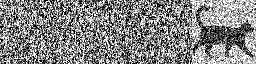
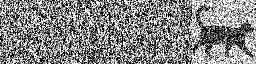
S-random interleaver, dropped SNR to 1 dB

diff --git a/repeat-accumulate.cpp b/repeat-accumulate.cpp
@@ -130,13 +130,43 @@ class RepeatAccumulateEncoder
   public:
     RepeatAccumulateEncoder()
     {
-      // Start with ordered sequence,
+      std::default_random_engine gen(123);
+      // Start with ordered sequence, then shuffle it
       for (int i = 0; i < B * Q; i++) {
         order_[i] = i;
       }
-      // then shuffle it
-      std::default_random_engine gen(123);
-      std::shuffle(order_, order_ + B * Q, gen);
+      int start = 0;
+      for (int attempt = 0; attempt < 1000; attempt++) {
+
+        // (re)shuffle the remaining portion
+        std::shuffle(order_ + start, order_ + B * Q, gen);
+
+        // Check if interleaver is S-random (no input symbols within distance S 
+        // appear within a distance of S in the output) with S == Q
+        bool is_s_random = true;
+        for (int i = start; i < B * Q - 1 && is_s_random; i++) {
+          for (int j = i + 1; j < i + Q && j < B * Q; j++) {
+            int distance = order_[i] - order_[j];
+            if (distance < Q && distance > -Q) {
+              is_s_random = false;
+              double percent_remaining = (B * Q - i) * 100. / (B * Q);
+              printf("Interleaver is not S-random, order_[%d]=%d and order_[%d]=%d, %.2f%% remaining\n", i, order_[i], j, order_[j], percent_remaining);
+              if (percent_remaining < 1) {
+                printf("Tail is too short, re-shuffling from the beginning\n");
+                start = 0;
+              } else {
+                start = i;
+              }
+              break;
+            }
+          }
+        }
+        if (is_s_random) {
+          printf("Interleaver is S-random\n");
+          return;
+        }
+      }
+      printf("Giving up, will use suboptimal interleaver\n");
     }
 
     // Decoder will need to know the order
@@ -277,6 +307,7 @@ class RepeatAccumulateDecoder
           }
         }
         if (all_parity_checks_ok) {
+          printf("All parity checks passed at iteration %d\n", iteration);
           break;
         }
 
@@ -349,7 +380,7 @@ std::bitset<B> simple_average_decode(const double received_repeat[B * (Q + 1)])
 int main(void)
 {
   const double rate = 1. / (Q + 1);
-  const double ebn0 = 2.; // Signal to noise ratio in dB
+  const double ebn0 = 1.; // Signal to noise ratio in dB
   const double variance = 1.0 / (rate * pow(10.0, ebn0 / 10.0)) * 0.5;
   printf("Coding rate = %lf, SNR = %g dB\n", rate, ebn0);
     
@@ -400,6 +431,7 @@ int main(void)
   corrected_ra = ra_decoder.decode(llr, 15); write_pbm("images/corrected_ra_15.pbm", corrected_ra);
   corrected_ra = ra_decoder.decode(llr, 20); write_pbm("images/corrected_ra_20.pbm", corrected_ra);
   corrected_ra = ra_decoder.decode(llr, 25); write_pbm("images/corrected_ra_25.pbm", corrected_ra);
+  corrected_ra = ra_decoder.decode(llr); write_pbm("images/corrected_ra.pbm", corrected_ra);
 
   // Count errors
   int error_count_repeat = 0, error_count_ra = 0;

diff --git a/README.md b/README.md
@@ -8,7 +8,7 @@ In this toy example we will be transmitting the following 64x64 black and white 
 
 Most real data will have less redundancy, but here redundancy is good because it will help see the errors.
 
-As a baseline, try simplest possible error correction first: send the same data four times. To simulate channel noise, pull random numbers from normal distribution and add to the transmitted signal. In this example signal to noise ratio is kept at pretty sporty 2 dB.
+As a baseline, try simplest possible error correction first: send the same data four times. To simulate channel noise, pull random numbers from normal distribution and add to the transmitted signal. In this example signal to noise ratio is kept at pretty sporty 1 dB.
 
 ![Repeated four times, with noise added](images/received_repeat.png)
 
@@ -28,8 +28,8 @@ Here it is used as a systematic code with *Q=3*, so first 64x64x3 bits go throug
 
 ![Systematic repeat-accumulate code, with noise added](images/received_ra.png)
 
-Decoding algorithm is iterative. Intermediate results after 1, 5, 10, 15, 20, and 25 iterations:
+Decoding algorithm is iterative. Intermediate results after 1, 5, 10, 15, 20, 25 iterations and final decoded image:
 
-![RA decoder output after 1 iteration](images/corrected_ra_01.png) ![RA decoder output after 5 iterations](images/corrected_ra_05.png) ![RA decoder output after 10 iterations](images/corrected_ra_10.png) ![RA decoder output after 15 iterations](images/corrected_ra_15.png) ![RA decoder output after 20 iterations](images/corrected_ra_20.png) ![RA decoder output after 25 iterations](images/corrected_ra_25.png)
+![RA decoder output after 1 iteration](images/corrected_ra_01.png) ![RA decoder output after 5 iterations](images/corrected_ra_05.png) ![RA decoder output after 10 iterations](images/corrected_ra_10.png) ![RA decoder output after 15 iterations](images/corrected_ra_15.png) ![RA decoder output after 20 iterations](images/corrected_ra_20.png) ![RA decoder output after 25 iterations](images/corrected_ra_25.png) ![RA decoder output after 61 iterations](images/corrected_ra.png)
 
 Decoding algorithm is borrowed from LDPC codes. It's using [passing messages](https://en.wikipedia.org/wiki/Belief_propagation) back and forth on [Tanner graph](https://en.wikipedia.org/wiki/Tanner_graph), in a way similar to [Viterbi algorithm](https://en.wikipedia.org/wiki/Viterbi_algorithm).
